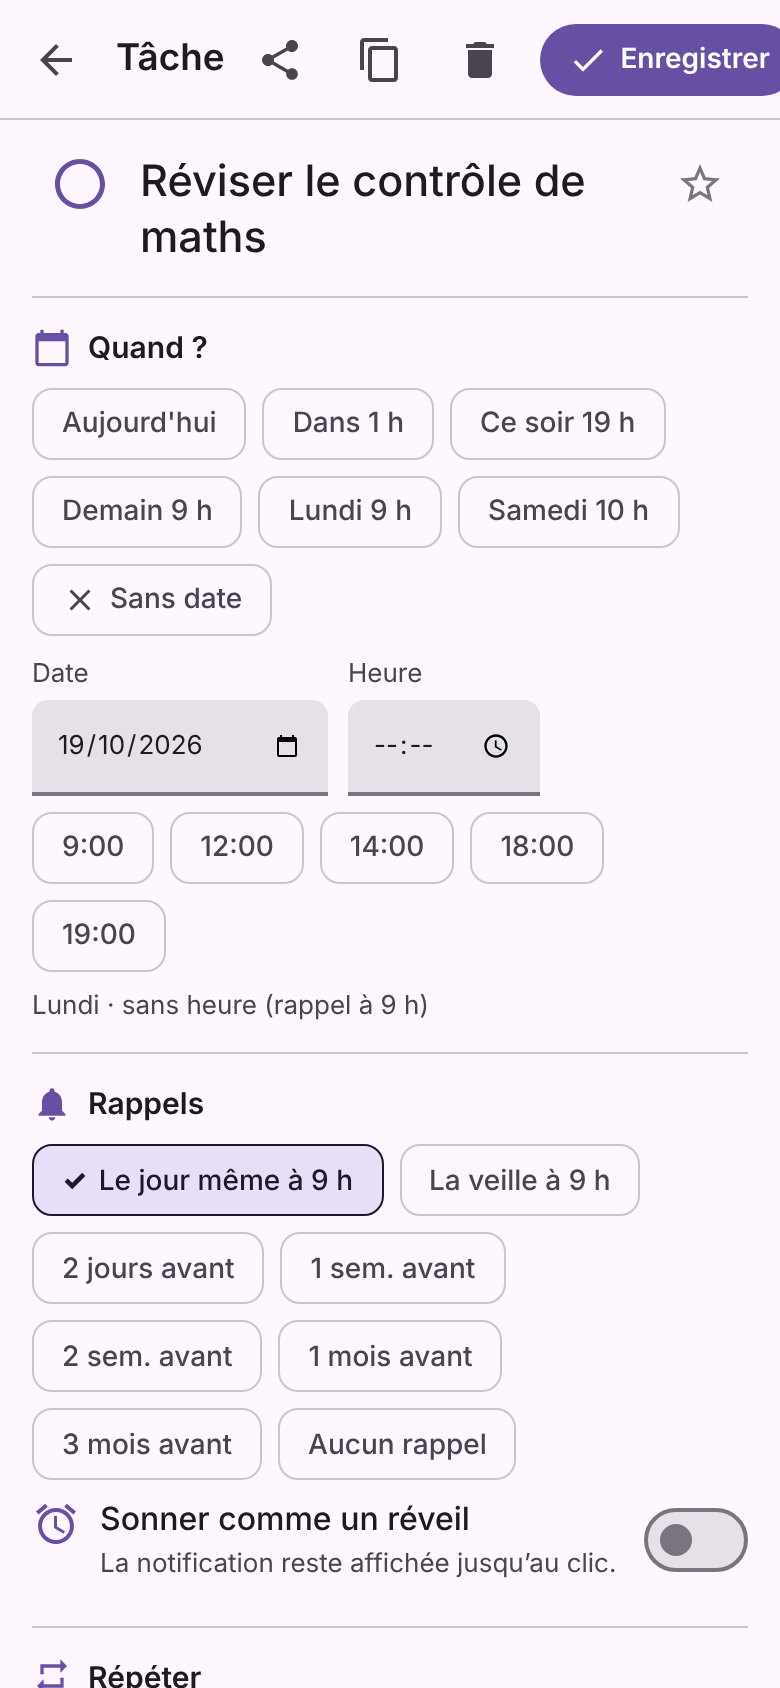
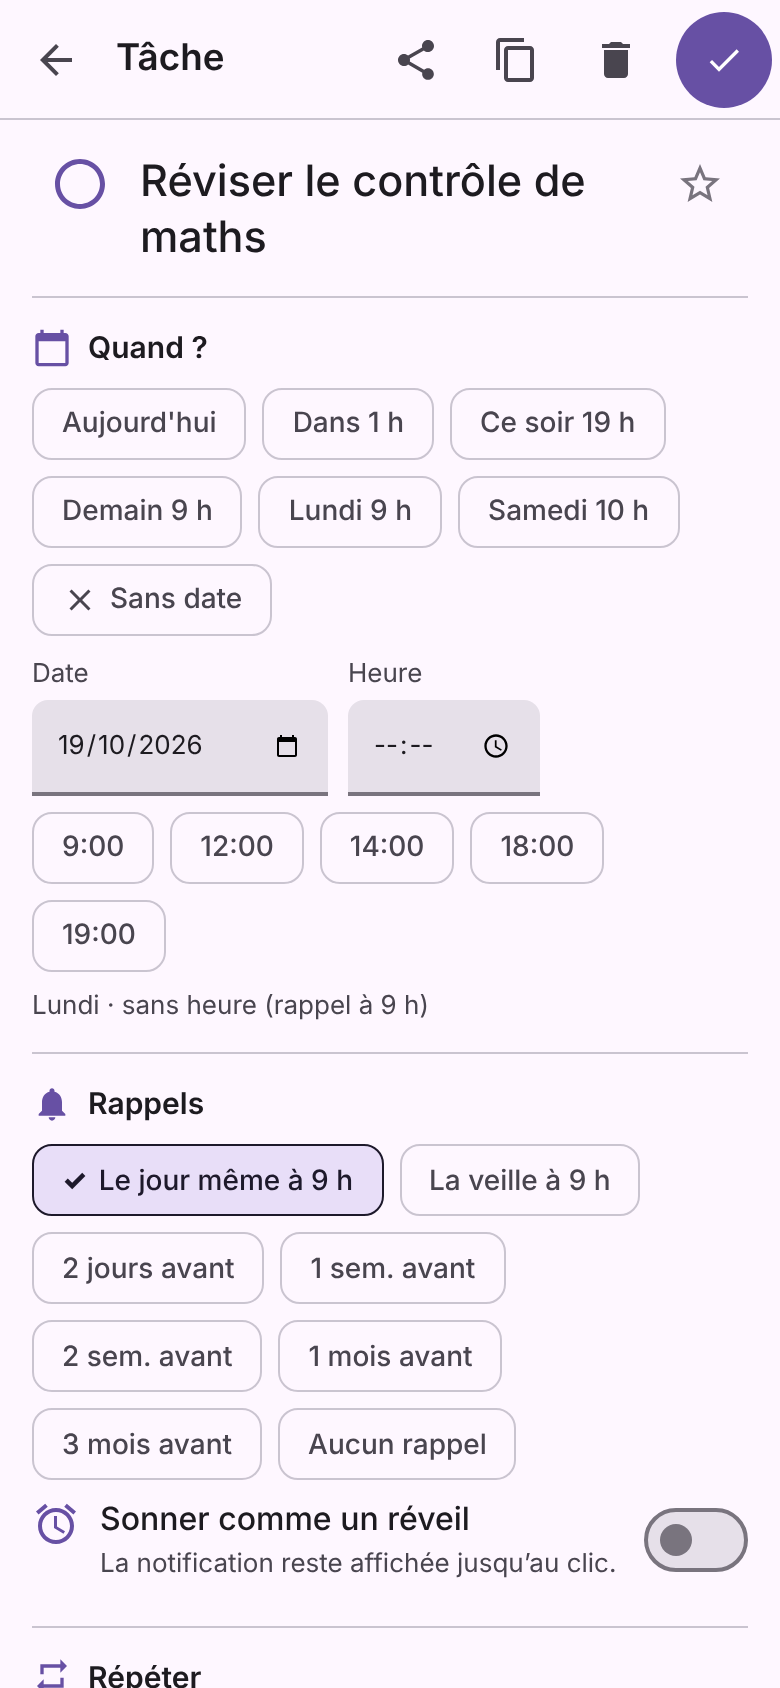
Mon Orga: the header's level and streak never split; fresh screenshots
Claude-Session: https://claude.ai/code/session_01Sf7ZLRAMHcffyV5uBqZ8pq

Changed region(s): [[0.5846, 0.0, 1.0, 0.0616], [0.4615, 0.0, 0.5538, 0.0616], [0.3385, 0.0308, 0.3692, 0.0616]]

diff --git a/mon-orga/web/src/app.js b/mon-orga/web/src/app.js
@@ -447,7 +447,7 @@
       if (late) parts.push('<b class="late">' + esc(plural(late, 'lateOne', 'lateMany')) + '</b>')
       if (!set.calm && st.count) parts.push(esc(T('levelShort', st.level.level)))
       if (!set.calm && st.streak > 1) parts.push(esc(T('streakTiny', st.streak)))
-      sub = parts.map((p, i) => i ? p : esc(p)).join(' · ')
+      sub = parts.map((p, i) => i ? '<span class="nb">' + p + '</span>' : esc(p)).join(' · ') // "🔥 6 j" never splits
     } else if (ui.tab === 'notes') sub = esc(plural(S.live(doc.notes).length, 'notesOne', 'notesMany'))
     else if (ui.tab === 'agenda') sub = esc(cap(fmt({ weekday: 'long', day: 'numeric', month: 'long' }, new Date())))
     else sub = esc(T('plusSub'))

diff --git a/mon-orga/web/src/style.css b/mon-orga/web/src/style.css
@@ -370,3 +370,4 @@ p.ok > .ic { color: var(--ok) } p.warn > .ic { color: var(--late) }
 .menu-item { display: flex; align-items: center; gap: 12px; text-align: left; padding: 10px 12px; min-height: 48px; border-radius: 12px; font-size: 1rem }
 .menu-item .ic { color: var(--primary) }
 .menu-item:hover, .menu-item:focus-visible { background: var(--hover) }
+.nb { white-space: nowrap }
